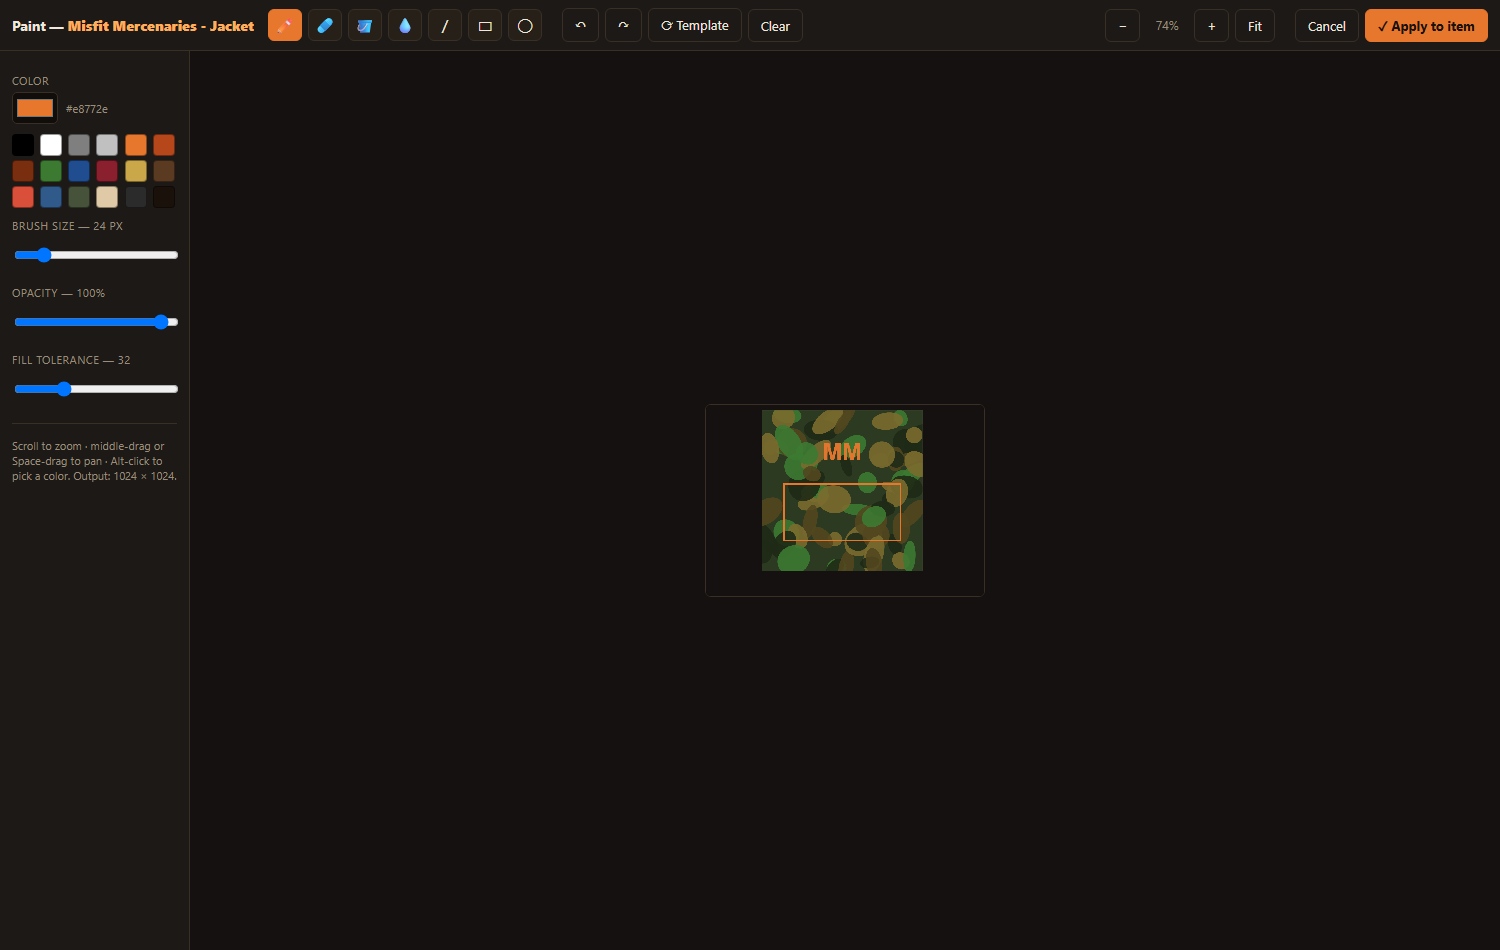
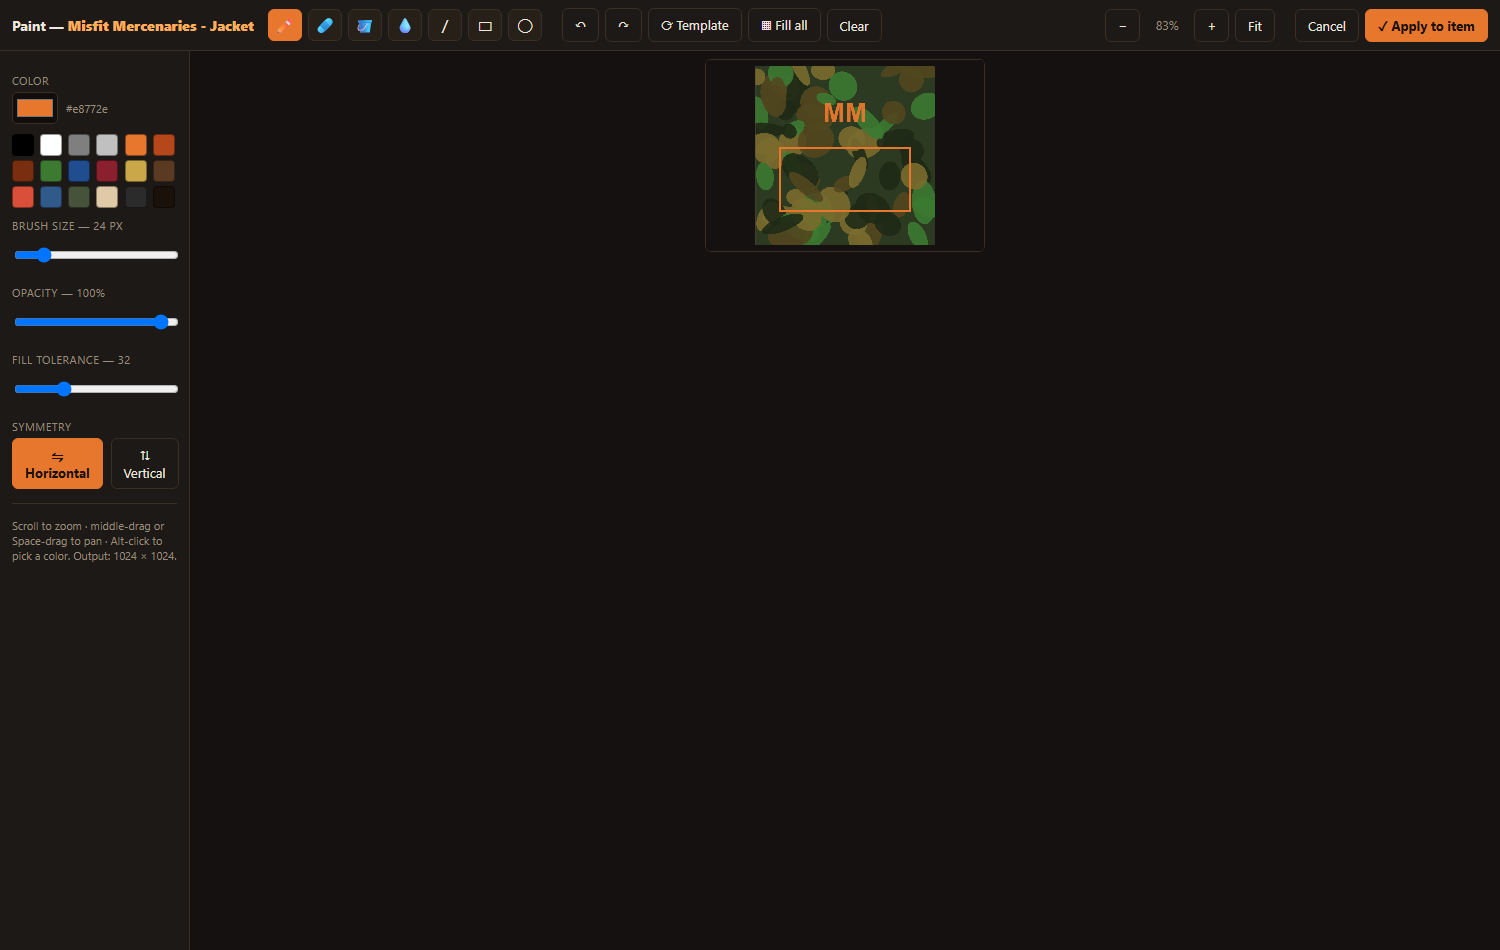
Paint editor: symmetry, fill-all, and correct canvas sizing
- add horizontal/vertical mirror (symmetry) painting for brush, shapes, and fill
- add "Fill all" button (flood the whole canvas with the current colour)
- fix canvas sizing: buffer from clientWidth/Height (immune to page scaling),
  ResizeObserver auto-fits once the stage has real dimensions
- fix pointer mapping: scale client coords -> canvas-buffer space in toPc
  (correct painting on high-DPI / scaled displays)
- update paint screenshot + README feature list

diff --git a/index.html b/index.html
@@ -77,10 +77,11 @@
   .pm-title b{color:var(--accent2)}
   .pm-tool{width:34px;height:32px;padding:0;font-size:15px;display:grid;place-items:center}
   .pm-tool.active{background:var(--accent);color:#1a120a;border-color:var(--accent)}
+  .pm-side button.active{background:var(--accent);color:#1a120a;border-color:var(--accent);font-weight:700}
   .pm-body{flex:1;display:flex;min-height:0}
   .pm-side{width:190px;border-right:1px solid var(--line);background:var(--panel);padding:12px;overflow:auto}
-  .pm-stage{flex:1;position:relative;overflow:hidden;background:#141110;display:grid;place-items:center}
-  #pmCanvas{cursor:crosshair;touch-action:none;image-rendering:pixelated}
+  .pm-stage{flex:1;position:relative;overflow:hidden;background:#141110}
+  #pmCanvas{position:absolute;inset:0;cursor:crosshair;touch-action:none}
   .pm-swatch{width:22px;height:22px;border-radius:4px;border:1px solid #0006;cursor:pointer}
   .pm-swatch.active{outline:2px solid var(--accent2);outline-offset:1px}
   .pm-row{display:flex;align-items:center;gap:8px;margin-bottom:10px}
@@ -398,6 +399,7 @@
     <button class="ghost" id="pmUndo" title="Undo (Ctrl+Z)">↶</button>
     <button class="ghost" id="pmRedo" title="Redo (Ctrl+Y)">↷</button>
     <button class="ghost" id="pmReset" title="Replace canvas with the vanilla template">⟳ Template</button>
+    <button class="ghost" id="pmFillAll" title="Fill the whole canvas with the current color">▦ Fill all</button>
     <button class="ghost danger" id="pmClear">Clear</button>
     <span class="sp"></span>
     <button class="ghost" id="pmZoomOut">−</button>
@@ -422,6 +424,11 @@
       <input type="range" id="pmOpacity" min="5" max="100" value="100" style="width:100%">
       <div class="pm-lbl">Fill tolerance — <span id="pmTolLbl">32</span></div>
       <input type="range" id="pmTol" min="0" max="128" value="32" style="width:100%">
+      <div class="pm-lbl">Symmetry</div>
+      <div class="pm-row">
+        <button class="ghost" id="pmMirrorX" title="Mirror left/right" style="flex:1">⇋ Horizontal</button>
+        <button class="ghost" id="pmMirrorY" title="Mirror top/bottom" style="flex:1">⇅ Vertical</button>
+      </div>
       <div class="divider"></div>
       <div class="hint">Scroll to zoom · middle-drag or Space-drag to pan · Alt-click to pick a color. Output: <span id="pmRes"></span>.</div>
     </div>
@@ -1415,7 +1422,14 @@ const Paint = (()=>{
   let zoom=1, panX=0, panY=0;
   let tool='brush', color='#e8772e', size=24, opacity=1, tol=32;
   let drawing=false, panning=false, spaceDown=false, last=null, start=null, preview=null;
+  let mirrorX=false, mirrorY=false, needsFit=false;
   const undo=[], redo=[];
+  // run a pc-drawing op once normally + once per enabled mirror axis (via canvas transform)
+  function eachMirror(fn){ fn();
+    if(mirrorX){ pctx.save(); pctx.translate(W,0); pctx.scale(-1,1); fn(); pctx.restore(); }
+    if(mirrorY){ pctx.save(); pctx.translate(0,W); pctx.scale(1,-1); fn(); pctx.restore(); }
+    if(mirrorX&&mirrorY){ pctx.save(); pctx.translate(W,W); pctx.scale(-1,-1); fn(); pctx.restore(); }
+  }
   let dc=null, dctx=null, checker=null;
 
   function maxUndo(){ return W<=1024?20 : W<=2048?12 : 6; }
@@ -1431,21 +1445,24 @@ const Paint = (()=>{
     $('pmItemName').textContent=it.display||it.cls;
     $('pmRes').textContent=W+' × '+W;
     $('paintModal').classList.add('open');
+    $('pmMirrorX').classList.toggle('active',mirrorX); $('pmMirrorY').classList.toggle('active',mirrorY);
     dc=$('pmCanvas'); dctx=dc.getContext('2d');
     if(!checker){ const c=document.createElement('canvas');c.width=c.height=16;const x=c.getContext('2d');
       x.fillStyle='#3a352f';x.fillRect(0,0,16,16);x.fillStyle='#2a2722';x.fillRect(0,0,8,8);x.fillRect(8,8,8,8);
       checker=dctx.createPattern(c,'repeat'); }
-    sizeStage();
-    // starting image: current texture, else the selected template, else blank
-    const startSrc = it.tex || tplSrc(it);
-    if(startSrc){ const img=new Image(); img.onload=()=>{ pctx.clearRect(0,0,W,W); pctx.drawImage(img,0,0,W,W); fit(); }; img.onerror=()=>{ fit(); }; img.src=startSrc; }
-    else { pctx.clearRect(0,0,W,W); fit(); }
+    // load the starting image into the paint layer
+    const startSrc = it.tex || tplSrc(it);   // current texture, else template, else blank
+    if(startSrc){ const img=new Image(); img.onload=()=>{ pctx.clearRect(0,0,W,W); pctx.drawImage(img,0,0,W,W); render(); }; img.onerror=()=>render(); img.src=startSrc; }
+    else pctx.clearRect(0,0,W,W);
+    // size + auto-fit once the stage has its real dimensions (ResizeObserver handles late layout)
+    needsFit=true; sizeStage(); fit();
     updUndoBtns();
   }
   function tplSrc(it){ const b=bucketFor(it); return (it.tpl && b) ? 'templates/'+b+'/'+it.tpl : null; }
   function close(){ $('paintModal').classList.remove('open'); item=null; pc=null; pctx=null; }
 
-  function sizeStage(){ const s=$('pmStage'); dc.width=s.clientWidth; dc.height=s.clientHeight; }
+  // use clientWidth/Height (true layout size, unaffected by any visual page scaling)
+  function sizeStage(){ const s=$('pmStage'); dc.width=Math.max(1,s.clientWidth); dc.height=Math.max(1,s.clientHeight); }
   function fit(){ const m=Math.min(dc.width/W, dc.height/W)*0.94; zoom=m; panX=(dc.width-W*zoom)/2; panY=(dc.height-W*zoom)/2; render(); }
   function setZoom(z,cx,cy){ cx=cx??dc.width/2; cy=cy??dc.height/2; const px=(cx-panX)/zoom, py=(cy-panY)/zoom;
     zoom=Math.max(0.05,Math.min(16,z)); panX=cx-px*zoom; panY=cy-py*zoom; render(); }
@@ -1475,7 +1492,9 @@ const Paint = (()=>{
     dctx.restore();
   }
   function toScreen(x,y){ return {x:panX+x*zoom, y:panY+y*zoom}; }
-  function toPc(e){ const r=dc.getBoundingClientRect(); const sx=e.clientX-r.left, sy=e.clientY-r.top;
+  function toPc(e){ const r=dc.getBoundingClientRect();
+    const fx=dc.width/r.width, fy=dc.height/r.height;          // CSS px -> canvas buffer px
+    const sx=(e.clientX-r.left)*fx, sy=(e.clientY-r.top)*fy;
     return {x:(sx-panX)/zoom, y:(sy-panY)/zoom, sx, sy}; }
 
   function strokeStyle(erase){ pctx.lineCap='round'; pctx.lineJoin='round'; pctx.lineWidth=size;
@@ -1488,15 +1507,16 @@ const Paint = (()=>{
     if(e.button===1 || spaceDown){ panning=true; last={x:e.clientX,y:e.clientY}; return; }
     const p=toPc(e);
     if(e.altKey || tool==='pick'){ pick(p); return; }
-    if(tool==='fill'){ snap(); floodFill(Math.floor(p.x),Math.floor(p.y)); render(); return; }
-    if(tool==='brush'||tool==='eraser'){ snap(); strokeStyle(tool==='eraser'); pctx.beginPath();
-      pctx.arc(p.x,p.y,size/2,0,7); pctx.fill(); last=p; drawing=true; render(); return; }
+    if(tool==='fill'){ snap(); const fx=Math.floor(p.x),fy=Math.floor(p.y); floodFill(fx,fy);
+      if(mirrorX)floodFill(W-1-fx,fy); if(mirrorY)floodFill(fx,W-1-fy); if(mirrorX&&mirrorY)floodFill(W-1-fx,W-1-fy); render(); return; }
+    if(tool==='brush'||tool==='eraser'){ snap(); strokeStyle(tool==='eraser');
+      eachMirror(()=>{ pctx.beginPath(); pctx.arc(p.x,p.y,size/2,0,7); pctx.fill(); }); last=p; drawing=true; render(); return; }
     if(tool==='line'||tool==='rect'||tool==='ellipse'){ start=p; preview={tool,x0:p.x,y0:p.y,x1:p.x,y1:p.y}; drawing=true; render(); }
   }
   function move(e){
     if(panning){ panX+=e.clientX-last.x; panY+=e.clientY-last.y; last={x:e.clientX,y:e.clientY}; render(); return; }
     if(!drawing)return; const p=toPc(e);
-    if(tool==='brush'||tool==='eraser'){ pctx.beginPath(); pctx.moveTo(last.x,last.y); pctx.lineTo(p.x,p.y); pctx.stroke(); last=p; render(); }
+    if(tool==='brush'||tool==='eraser'){ const a=last,b=p; eachMirror(()=>{ pctx.beginPath(); pctx.moveTo(a.x,a.y); pctx.lineTo(b.x,b.y); pctx.stroke(); }); last=p; render(); }
     else if(preview){ preview.x1=p.x; preview.y1=p.y; render(); }
   }
   function up(e){
@@ -1507,10 +1527,12 @@ const Paint = (()=>{
   }
   function commitShape(s){
     pctx.globalAlpha=opacity; pctx.strokeStyle=color; pctx.fillStyle=color;
-    pctx.lineWidth=size; pctx.lineCap='round'; pctx.lineJoin='round'; pctx.beginPath();
-    if(s.tool==='line'){ pctx.moveTo(s.x0,s.y0); pctx.lineTo(s.x1,s.y1); pctx.stroke(); }
-    else if(s.tool==='rect'){ pctx.strokeRect(Math.min(s.x0,s.x1),Math.min(s.y0,s.y1),Math.abs(s.x1-s.x0),Math.abs(s.y1-s.y0)); }
-    else if(s.tool==='ellipse'){ pctx.ellipse((s.x0+s.x1)/2,(s.y0+s.y1)/2,Math.abs(s.x1-s.x0)/2,Math.abs(s.y1-s.y0)/2,0,0,7); pctx.stroke(); }
+    pctx.lineWidth=size; pctx.lineCap='round'; pctx.lineJoin='round';
+    eachMirror(()=>{ pctx.beginPath();
+      if(s.tool==='line'){ pctx.moveTo(s.x0,s.y0); pctx.lineTo(s.x1,s.y1); pctx.stroke(); }
+      else if(s.tool==='rect'){ pctx.strokeRect(Math.min(s.x0,s.x1),Math.min(s.y0,s.y1),Math.abs(s.x1-s.x0),Math.abs(s.y1-s.y0)); }
+      else if(s.tool==='ellipse'){ pctx.ellipse((s.x0+s.x1)/2,(s.y0+s.y1)/2,Math.abs(s.x1-s.x0)/2,Math.abs(s.y1-s.y0)/2,0,0,7); pctx.stroke(); }
+    });
   }
   function pick(p){ const d=pctx.getImageData(Math.floor(p.x),Math.floor(p.y),1,1).data;
     if(d[3]===0)return; color='#'+[d[0],d[1],d[2]].map(v=>v.toString(16).padStart(2,'0')).join(''); syncColor(); }
@@ -1535,6 +1557,7 @@ const Paint = (()=>{
   function resetToTemplate(){ const src=tplSrc(item); if(!src){ alert('No template selected for this item. Pick one in the Texture panel first.'); return; }
     const img=new Image(); img.onload=()=>{ snap(); pctx.clearRect(0,0,W,W); pctx.drawImage(img,0,0,W,W); render(); }; img.src=src; }
   function clear(){ snap(); pctx.clearRect(0,0,W,W); render(); }
+  function fillAll(){ snap(); pctx.globalAlpha=opacity; pctx.globalCompositeOperation='source-over'; pctx.fillStyle=color; pctx.fillRect(0,0,W,W); resetCtx(); render(); }
   function apply(){ if(!item)return; item.tex=pc.toDataURL('image/png'); close(); renderAll(); }
 
   function setTool(t){ tool=t; document.querySelectorAll('.pm-tool').forEach(b=>b.classList.toggle('active',b.dataset.tool===t)); }
@@ -1551,6 +1574,9 @@ const Paint = (()=>{
     $('pmOpacity').oninput=()=>{ opacity=+$('pmOpacity').value/100; $('pmOpacityLbl').textContent=$('pmOpacity').value; };
     $('pmTol').oninput=()=>{ tol=+$('pmTol').value; $('pmTolLbl').textContent=tol; };
     $('pmUndo').onclick=doUndo; $('pmRedo').onclick=doRedo; $('pmClear').onclick=clear; $('pmReset').onclick=resetToTemplate;
+    $('pmFillAll').onclick=fillAll;
+    $('pmMirrorX').onclick=()=>{ mirrorX=!mirrorX; $('pmMirrorX').classList.toggle('active',mirrorX); };
+    $('pmMirrorY').onclick=()=>{ mirrorY=!mirrorY; $('pmMirrorY').classList.toggle('active',mirrorY); };
     $('pmZoomIn').onclick=()=>setZoom(zoom*1.25); $('pmZoomOut').onclick=()=>setZoom(zoom/1.25); $('pmFit').onclick=fit;
     $('pmApply').onclick=apply; $('pmCancel').onclick=()=>{ if(confirm('Discard changes and close the editor?'))close(); };
     const c=$('pmCanvas');
@@ -1558,6 +1584,11 @@ const Paint = (()=>{
     window.addEventListener('pointerup',up);
     c.addEventListener('wheel',e=>{ e.preventDefault(); const p=toPc(e); setZoom(zoom*(e.deltaY<0?1.1:0.9), p.sx, p.sy); },{passive:false});
     window.addEventListener('resize',()=>{ if($('paintModal').classList.contains('open')){ sizeStage(); render(); } });
+    if(window.ResizeObserver) new ResizeObserver(()=>{
+      if(!$('paintModal').classList.contains('open')||!dc) return;
+      sizeStage();
+      if(needsFit && dc.width>10){ fit(); needsFit=false; } else render();
+    }).observe($('pmStage'));
     document.addEventListener('keydown',e=>{ if(!$('paintModal').classList.contains('open'))return;
       if(e.key===' '){ spaceDown=true; }
       if(e.ctrlKey&&e.key.toLowerCase()==='z'){ e.preventDefault(); doUndo(); }

diff --git a/README.md b/README.md
@@ -28,8 +28,9 @@ No Workbench, no hand-editing configs. Just a photo edit and a few clicks.
 - **Placeable crates & containers** with custom cargo.
 - **Built-in paint editor** — an MS-Paint-style editor right inside the tool:
   load the vanilla UV layout as your canvas and paint it live (brush, eraser,
-  fill bucket, line/rect/ellipse, eyedropper, undo/redo, zoom/pan, color
-  swatches), then apply it straight to the item. No external editor needed.
+  fill bucket, fill-all, line/rect/ellipse, eyedropper, **horizontal/vertical
+  symmetry**, undo/redo, zoom/pan, color swatches, opacity), then apply it
+  straight to the item. No external editor needed.
 - **Paint-over UV templates** — or download the real vanilla UV layout to paint
   in Photoshop/GIMP and re-import.
 - **`types.xml` generator** so your items actually spawn in the central economy.